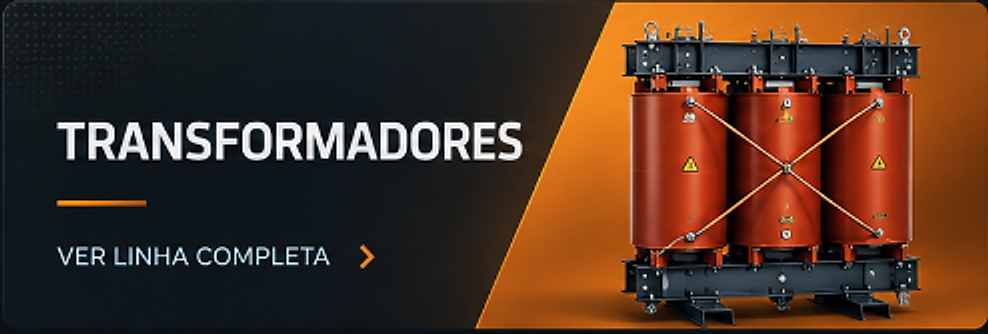
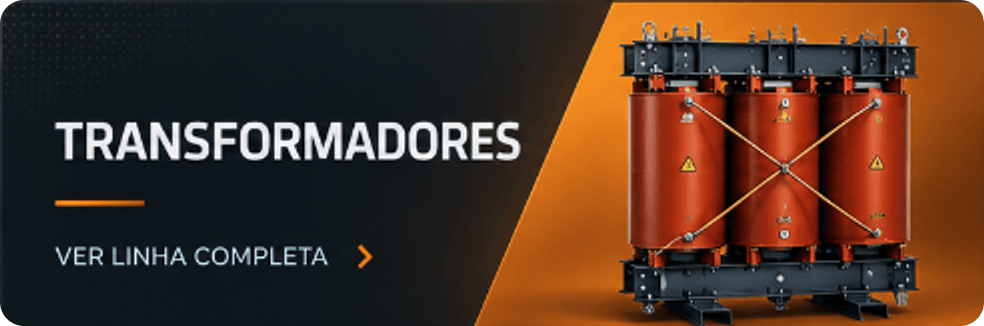
feat(produtos): novo layout das categorias 2x3 em alta resolucao

diff --git a/src/app/produtos/page.tsx b/src/app/produtos/page.tsx
@@ -156,14 +156,19 @@ export default function ProdutosPage() {
 
           <div className="grid grid-cols-1 md:grid-cols-2 gap-5 lg:gap-6">
             {SHOWCASE_CATEGORIES.map((card) => {
+              const isBlue = card.theme === "blue";
               return (
                 <Link
                   key={card.id}
                   href={card.href}
-                  className="group relative block rounded-2xl overflow-hidden border border-[#203548] bg-[#0c131a] shadow-xl hover:shadow-[0_12px_35px_rgba(0,0,0,0.7)] transition-all duration-300 hover:scale-[1.015] focus:outline-none focus:ring-2 focus:ring-[#66c0f4]"
+                  className={`group relative block rounded-2xl overflow-hidden border border-[#203548] bg-[#0c131a] shadow-xl transition-all duration-300 hover:scale-[1.015] focus:outline-none focus:ring-2 ${
+                    isBlue
+                      ? "hover:border-[#66c0f4] hover:shadow-[0_12px_35px_rgba(0,159,227,0.3)] focus:ring-[#66c0f4]"
+                      : "hover:border-amber-500 hover:shadow-[0_12px_35px_rgba(245,158,11,0.3)] focus:ring-amber-500"
+                  }`}
                   title={`${card.title} - ${card.actionText}`}
                 >
-                  <div className="relative aspect-[494/167] w-full overflow-hidden bg-[#0c131a]">
+                  <div className="relative aspect-[984/326] w-full overflow-hidden bg-[#0c131a]">
                     <Image
                       src={card.bannerUrl}
                       alt={`${card.title} - ${card.subtitle}`}
@@ -176,7 +181,7 @@ export default function ProdutosPage() {
                     {/* Glow border highlight on hover matching theme */}
                     <div
                       className={`absolute inset-0 rounded-2xl border-2 pointer-events-none opacity-0 group-hover:opacity-100 transition-opacity duration-300 ${
-                        card.theme === "blue"
+                        isBlue
                           ? "border-[#66c0f4]/60 shadow-[inset_0_0_25px_rgba(102,192,244,0.25)]"
                           : "border-amber-400/60 shadow-[inset_0_0_25px_rgba(245,158,11,0.25)]"
                       }`}
